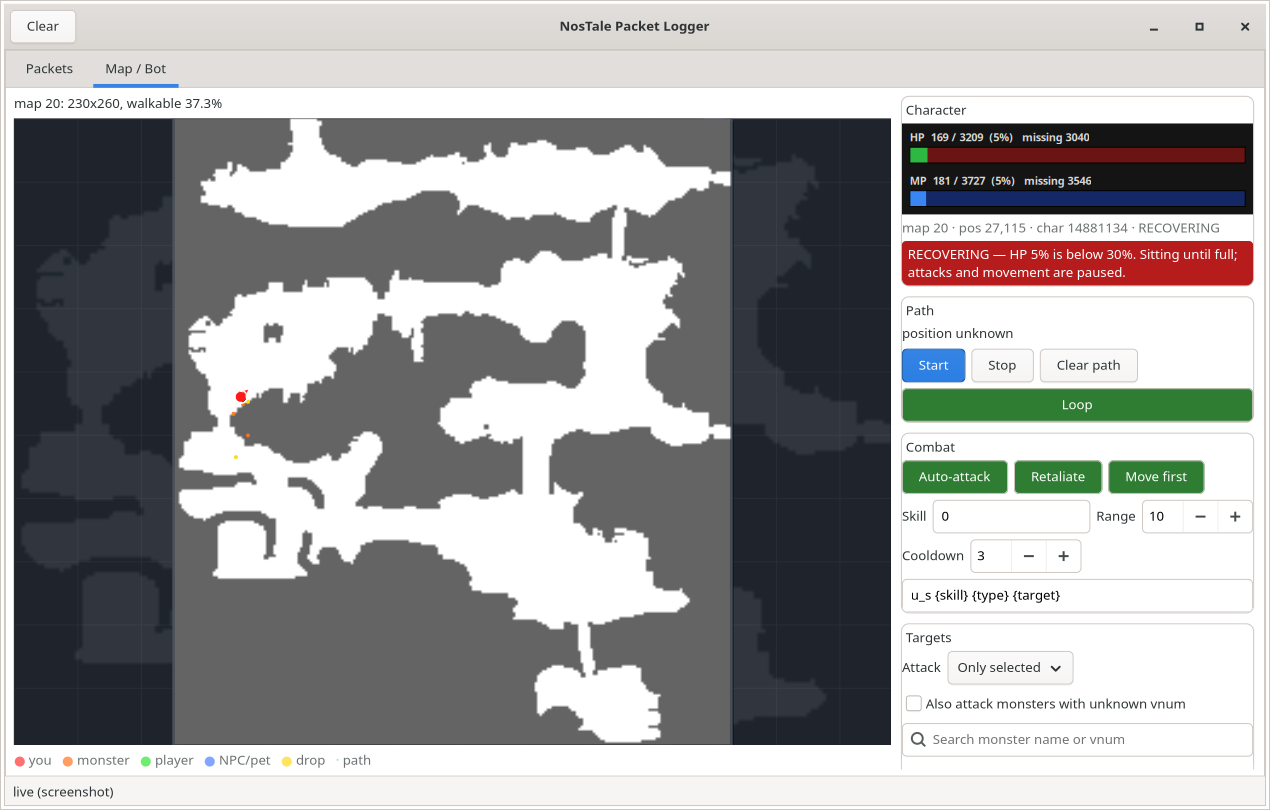
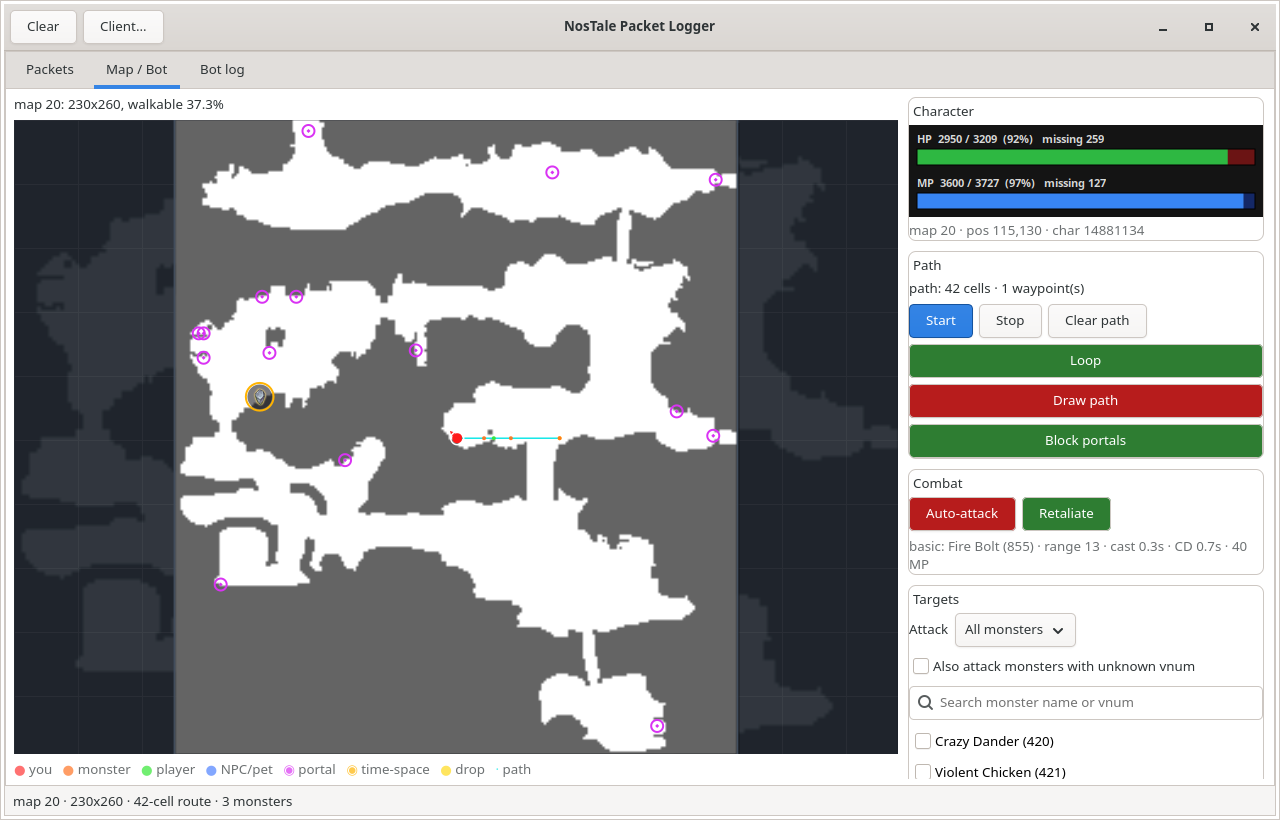
Refresh the README screenshots
Regenerate the Map/Bot and spell-rule images from the current window and
add the packet stream and the multi-client picker. The images show the A*
route, bot controls, real monster names and the per-client attach picker.
The generator (readme-shots.sh + gui_readme_shots.py) uses a fake packet
source with real map/monster data, so no game client or account is shown.
Also update the stale test counts in the READMEs and docs.

diff --git a/linux/test/gui_readme_shots.py b/linux/test/gui_readme_shots.py
@@ -1,0 +1,248 @@
+"""Generate the screenshots used by the README and docs.
+
+Manual tool, not part of ``make gui-test``: it starts a fake packet source,
+opens the real GTK4 window against a real map from NStcData, draws a route,
+spawns a few monsters with their real names, and leaves the window on screen
+for ``linux/scripts/readme-shots.sh`` to capture with ffmpeg/Xvfb.
+
+    NTPL_SHOT_MODE=map|packets|picker|spells \
+        PYTHONPATH=linux/host python3 linux/test/gui_readme_shots.py
+"""
+
+from __future__ import annotations
+
+import os
+import socket
+import sys
+import tempfile
+import threading
+import time
+from pathlib import Path
+
+import gi
+
+gi.require_version("Gtk", "4.0")
+
+from gi.repository import GLib
+
+from ntpl.clients import ClientInfo, Discovery, WineContext, client_lock_path
+from ntpl.gui import Application
+from ntpl.mapdata import astar, load_nstc
+
+MODE = os.environ.get("NTPL_SHOT_MODE", "map")
+CHAR_ID = 14881134
+HP, HP_MAX = 2950, 3209
+MP, MP_MAX = 3600, 3727
+
+
+def pick_scene():
+    """A walkable start, a 20-40 cell route and three monster cells."""
+    grids = load_nstc()
+    for map_id in (20, 2, 85):
+        grid = grids.get(map_id)
+        if grid is None:
+            continue
+        cells = [
+            (x, y)
+            for y in range(grid.height)
+            for x in range(grid.width)
+            if grid.is_walkable(x, y)
+        ]
+        cells.sort(
+            key=lambda cell: abs(cell[0] - grid.width // 2)
+            + abs(cell[1] - grid.height // 2)
+        )
+        for start in cells[:80]:
+            for dx, dy in (
+                (42, 0),
+                (0, 42),
+                (-42, 0),
+                (0, -42),
+                (34, 26),
+                (30, -30),
+            ):
+                goal = (start[0] + dx, start[1] + dy)
+                if not (
+                    0 <= goal[0] < grid.width
+                    and 0 <= goal[1] < grid.height
+                ):
+                    continue
+                if not grid.is_walkable(*goal):
+                    continue
+                path = astar(grid, start, goal)
+                if path and len(path) >= 30:
+                    return map_id, grid, start, path
+    return None
+
+
+def monster_line(vnum: int, entity: int, x: int, y: int) -> str:
+    return (
+        f"RECV|in 3 {vnum} {entity} {x} {y} 2 100 100 0 0 0 -1 0 0 -1 "
+        "- 0 -1 0 0 0 0 0 0 0 0 0 0 0 1 0\n"
+    )
+
+
+def start_fake_client(scene) -> int:
+    map_id, grid, start, path = scene
+    listener = socket.socket()
+    listener.setsockopt(socket.SOL_SOCKET, socket.SO_REUSEADDR, 1)
+    listener.bind(("127.0.0.1", 0))
+    listener.listen(1)
+    port = listener.getsockname()[1]
+    first, middle, last = path[len(path) // 4], path[len(path) // 2], path[-1]
+    player = path[len(path) // 3]
+    lines = [
+        "STATUS|ready",
+        "RECV|walk 1 2 3 4",
+        f"RECV|c_map 0 {map_id} 1",
+        f"RECV|at {CHAR_ID} {map_id} {start[0]} {start[1]} 2 0 13 1 -1 0 0",
+        f"RECV|stat {HP} {HP_MAX} {MP} {MP_MAX} 0 0",
+        "RECV|c_cond 0 0 1",
+        monster_line(419, 5001, *first),
+        monster_line(420, 5002, *middle),
+        monster_line(421, 5003, *last),
+        f"RECV|in 1 Mira - 900 {player[0]} {player[1]} 2 0 0 0",
+        "RECV|ncif 3 5001",
+        f"SEND|u_s 0 3 5001",
+        "RECV|su 1 14881134 3 5001 855 7 11 4001 0 0 0 0 1817 0 0 0 4140",
+        f"RECV|mv 3 5003 {last[0]} {last[1]} 4",
+        "RECV|get 5001 4001",
+    ]
+    payload = ("\n".join(lines) + "\n").encode("latin-1")
+
+    def serve() -> None:
+        connection, _ = listener.accept()
+        try:
+            connection.sendall(payload)
+            time.sleep(120)
+        finally:
+            connection.close()
+            listener.close()
+
+    threading.Thread(target=serve, daemon=True).start()
+    return port
+
+
+def picker_discovery(port: int) -> Discovery:
+    context = WineContext(wine="wine", prefix=Path("/nonexistent"), env={})
+    runtime = Path(tempfile.mkdtemp(prefix="ntpl-shot-lock-"))
+    os.environ["NTPL_RUNTIME_DIR"] = str(runtime)
+    owned = client_lock_path(332)
+    owned.parent.mkdir(parents=True, exist_ok=True)
+    owned.write_text(f"{os.getppid()}\n", encoding="ascii")
+    return Discovery(
+        clients=[
+            ClientInfo(context, 331, "NosTale - Seedle", port),
+            ClientInfo(context, 332, "NosTale - Dander", port + 1),
+            ClientInfo(context, 333, "NosTale - Chicken", None),
+        ],
+        errors=[],
+        injector=Path("/nonexistent/Injector.exe"),
+        dll=Path("/nonexistent/PacketLogger.dll"),
+    )
+
+
+def main() -> int:
+    scene = pick_scene()
+    if scene is None:
+        print("no walkable scene found")
+        return 1
+    map_id, grid, start, path = scene
+    port = start_fake_client(scene)
+    app = Application("127.0.0.1", port, unique=False, select_client=False)
+    waypoints = [path[-1]]
+    scheduled = {"late": False}
+
+    def scroll_spells() -> bool:
+        sidebar = app.sidebar_scroll.get_child()
+        ok, rect = app.spell_rules_box.compute_bounds(sidebar)
+        adjustment = app.sidebar_scroll.get_vadjustment()
+        if ok:
+            adjustment.set_value(max(0.0, rect.origin.y - 40))
+        else:
+            adjustment.set_value(adjustment.get_upper() * 0.62)
+        print(
+            "spells scroll:",
+            ok,
+            rect.origin.y if ok else None,
+            adjustment.get_upper(),
+            adjustment.get_value(),
+            file=sys.stderr,
+        )
+        return False
+
+    def add_spells() -> bool:
+        if not app.spells_loaded:
+            return True
+        added = 0
+        for wanted in ("Fire Bolt", "Healing"):
+            spell = next(
+                (
+                    spell
+                    for spell in app.spells.values()
+                    if spell.active and wanted.lower() in spell.name.lower()
+                ),
+                None,
+            )
+            if spell is not None:
+                app._add_spell_from_info(spell)
+                added += 1
+        print("spells added:", added, file=sys.stderr)
+        GLib.timeout_add(500, scroll_spells)
+        return False
+
+    def late_setup() -> bool:
+        app.waypoints[:] = waypoints
+        app.path_start = None
+        app._rebuild_path()
+        app._set_status(
+            f"map {map_id} · {grid.width}x{grid.height} · "
+            f"{len(app.path_cells)}-cell route · 3 monsters"
+        )
+        print(
+            "shot scene:",
+            map_id,
+            "start",
+            start,
+            "path",
+            len(app.path_cells),
+            "waypoints",
+            waypoints,
+            file=sys.stderr,
+        )
+
+        def redraw() -> bool:
+            app.map_area.queue_draw()
+            return False
+
+        GLib.timeout_add(400, redraw)
+        if MODE == "spells":
+            app._ensure_spells_loaded()
+            GLib.timeout_add(200, add_spells)
+        if MODE == "picker":
+            app._show_client_dialog(picker_discovery(port))
+        return False
+
+    def arrange() -> bool:
+        if MODE == "packets":
+            app.notebook.set_current_page(0)
+            if app.window is not None:
+                app.window.set_default_size(1440, 900)
+            return False
+        if app.map_grid is None or app.window is None:
+            return True
+        app.window.set_default_size(1440, 900)
+        app.notebook.set_current_page(1)
+        if not scheduled["late"]:
+            scheduled["late"] = True
+            # The map auto-detect and map-surface load run after the first
+            # draw; apply the route once they have settled.
+            GLib.timeout_add(2500, late_setup)
+        return False
+
+    GLib.timeout_add(1200, arrange)
+    return int(app.run([]))
+
+
+if __name__ == "__main__":
+    raise SystemExit(main())

diff --git a/README.md b/README.md
@@ -17,14 +17,26 @@ Two implementations live here:
 The packet documentation in [`docs/protocol/`](docs/protocol/README.md) is
 shared: the transport differs, the game's packets do not.
 
+## Screenshots
+
+![Map / Bot tab](docs/assets/gui-map.png)
+
+| Live packet stream | One window per game client |
+| :---: | :---: |
+| ![Packet stream](docs/assets/gui-packets.png) | ![Multi-client picker](docs/assets/gui-picker.png) |
+
+The **Map / Bot** tab draws the A\* route, monsters, portals and the bot
+controls. The picker gives each running game client its own window; a client
+already attached by another window is disabled.
+
 ## Quick start on Linux
 
 ```bash
 sudo apt install g++-mingw-w64-i686          # once
 make -C linux all test-host                  # DLL + injector + test fixtures
-make -C linux host-test                      # 142 Python unit tests
-make -C linux gui-test                       # headless GTK4 + map smoke (xvfb)
-make -C linux bot-test                       # 15 fake-server bot smokes
+make -C linux host-test                      # 190 Python unit tests
+make -C linux gui-test                       # headless GTK4 smokes (xvfb)
+make -C linux bot-test                       # 20 fake-server bot smokes
 
 # no game required: x86 hook stubs + DLL lifecycle + TCP + command path
 linux/scripts/dev-test-wine.sh 25
@@ -33,7 +45,7 @@ linux/scripts/dev-test-wine.sh 25
 linux/scripts/inject.sh        # optional: the GUI can inject from its picker
 linux/scripts/host.sh status
 linux/scripts/host.sh monitor
-linux/scripts/gui.sh           # lists the running clients, picks/injects one
+linux/scripts/gui.sh           # one window per client; run again for another
 
 # agent access (MCP over stdio; owns the DLL link, GUI joins on 47900)
 PYTHONPATH=linux/host python3 -m ntpl mcp
@@ -80,9 +92,9 @@ Start with [docs/architecture.md](docs/architecture.md), then:
 
 ## Status
 
-The Linux port builds, its 142 unit tests pass, the GTK4 window and fifteen bot
-smoke tests pass, and the real injector has been run against the **live
-NosTale client** under Wine 11:
+The Linux port builds, its 190 unit tests pass, the three GTK4 window smokes
+and twenty bot smoke tests pass, and the real injector has been run against
+the **live NosTale client** under Wine 11:
 
 - both hooks `ACTIVE` (`recv=0x004DBB4D send=0x004EB5C4 tnt=0x0055AA84`),
   `drops recv=0`;

diff --git a/docs/development.md b/docs/development.md
@@ -35,6 +35,11 @@ make -C linux all test-host
 linux/scripts/dev-test-wine.sh 25
 ```
 
+The README screenshots are regenerated with
+`linux/scripts/readme-shots.sh` (Xvfb + xdotool + ffmpeg) from
+`linux/test/gui_readme_shots.py`; it uses real map/monster data and a fake
+packet source, so no game client or account is shown.
+
 The unit tests cover the wire protocol, the TCP client (including split-line
 reassembly and peer close), the engine's world-state handlers, the map
 parser/A* (synthetic NOS, bad headers, walls, unreachable targets, ranking,
@@ -42,9 +47,11 @@ parser/A* (synthetic NOS, bad headers, walls, unreachable targets, ranking,
 spawn-log parsing (spawns and the `ski` skill list), Skill.dat spell metadata,
 rule-order persistence, and the monster/skill text tables. The GUI tests open
 the real window under Xvfb: one checks rows, status, map switch, tooltips,
-toggle colors and the recovery banner; the other drives the client picker
+toggle colors and the recovery banner; the second drives the client picker
 with two fake clients (Connect attaches to the selected port, an uninjected
-client offers Inject & connect). The bot smokes cover combat + path movement,
+client offers Inject & connect); the third owns one client's attach lock in a
+child process, checks the new window skips it, attaches the free client and
+releases its own lock on shutdown. The bot smokes cover combat + path movement,
 target filters + spell rules + config save/load, the scan-backed spell picker
 dialog, scanned-spell rotation in list order, rejected walks, recovery,
 portal blocking (A* avoids warp tiles, a MOVE onto one is refused, `PORTALS|1`

diff --git a/linux/README.md b/linux/README.md
@@ -64,9 +64,9 @@ uses lowercase includes for that reason.
 
 ```bash
 make -C linux all test-host
-make -C linux host-test          # 173 cases: protocol, client, engine, mapdata, config, names, noscrypto, headless, gameforge auth
+make -C linux host-test          # 190 cases: protocol, client, engine, mapdata, config, names, noscrypto, headless, gameforge auth, client locks
 make -C linux gui-test           # headless GTK4: map switch, tooltips, toggles,
-                                 # banner, client picker
+                                 # banner, client picker, multi-client locks
 make -C linux bot-test           # 20 smokes: combat, rules/config, spell order, out-of-range, rejection, HP/MP + finish-kill recovery, loot approach, portal blocking, retaliate-only defence, far-goal leg chopping, death/revive dialog, ghost-target dropping, target focus, focus+retaliate, cancel pairing, refusal keep, defend first, start while sitting
 ./linux/scripts/dev-test-wine.sh 25
 ```

diff --git a/docs/README.md b/docs/README.md
@@ -28,8 +28,9 @@ the host differ, the game's packets do not.
 - **Windows tree (`windows/`)** — the original working implementation. Injector
   + DLL + WinForms GUI, named pipes.
 - **Linux tree (`linux/`)** — MinGW DLL + TCP loopback + Python CLI + GTK4 GUI
-  + state engine. Builds cleanly, **142 host tests pass**, the GTK4 window
-  passes headless smokes (packet window and client picker), and the DLL has
+  + state engine. Builds cleanly, **190 host tests pass**, the GTK4 window
+  passes three headless smokes (packet window, client picker, multi-client
+  locks), and the DLL has
   been verified against the **live NosTale client** under Wine 11: both hooks
   ACTIVE, drops 0, sit/stand via `rest`, and natural movement through the
   client's own MoveTo (`MOVE|x y` + `POS`). Several clients can run side by

diff --git a/docs/map.md b/docs/map.md
@@ -418,7 +418,7 @@ never sees the `at` packet.
 ## Tests
 
 ```bash
-make -C linux host-test   # 142 cases incl. synthetic NOS, 8-way A*, checksum, config
+make -C linux host-test   # 190 cases incl. synthetic NOS, 8-way A*, checksum, config
 make -C linux gui-test    # GUI + map surface + tooltips + unknown-position guard
 make -C linux bot-test    # 20 fake-server smokes: combat, rules, spell order, out-of-range, rejection, HP/MP + finish-kill recovery, loot approach, portal blocking, retaliate-only defence, far-goal leg chopping, death/revive dialog, ghost-target dropping, target focus, focus+retaliate, cancel pairing, refusal keep, defend first, start while sitting
 ```

diff --git a/docs/linux.md b/docs/linux.md
@@ -263,7 +263,7 @@ both.
 ## Tests
 
 ```bash
-make host-test          # 142 stdlib unit tests: protocol, engine, map, config, spells
+make host-test          # 190 stdlib unit tests: protocol, engine, map, config, spells
 
 make gui-test           # headless GTK4 window + map surface against a fake stream
 make bot-test           # 20 fake-server smokes: combat, rules/config, spell order, out-of-range, rejection, HP/MP + finish-kill recovery, loot approach, portal blocking, retaliate-only defence, far-goal leg chopping, death/revive dialog, ghost-target dropping, target focus, focus+retaliate, cancel pairing, refusal keep, defend first, start while sitting
